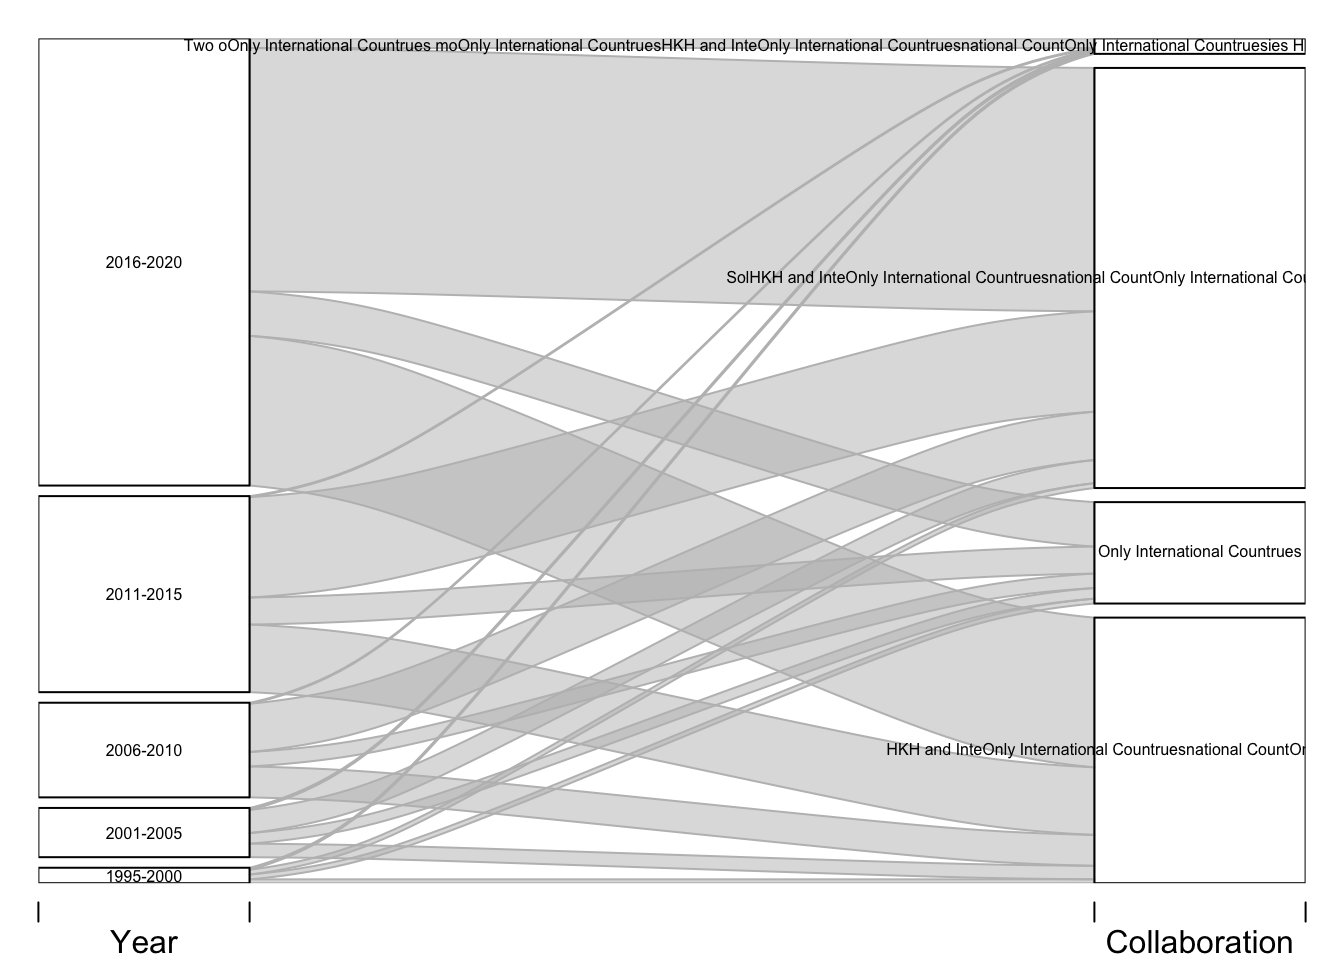
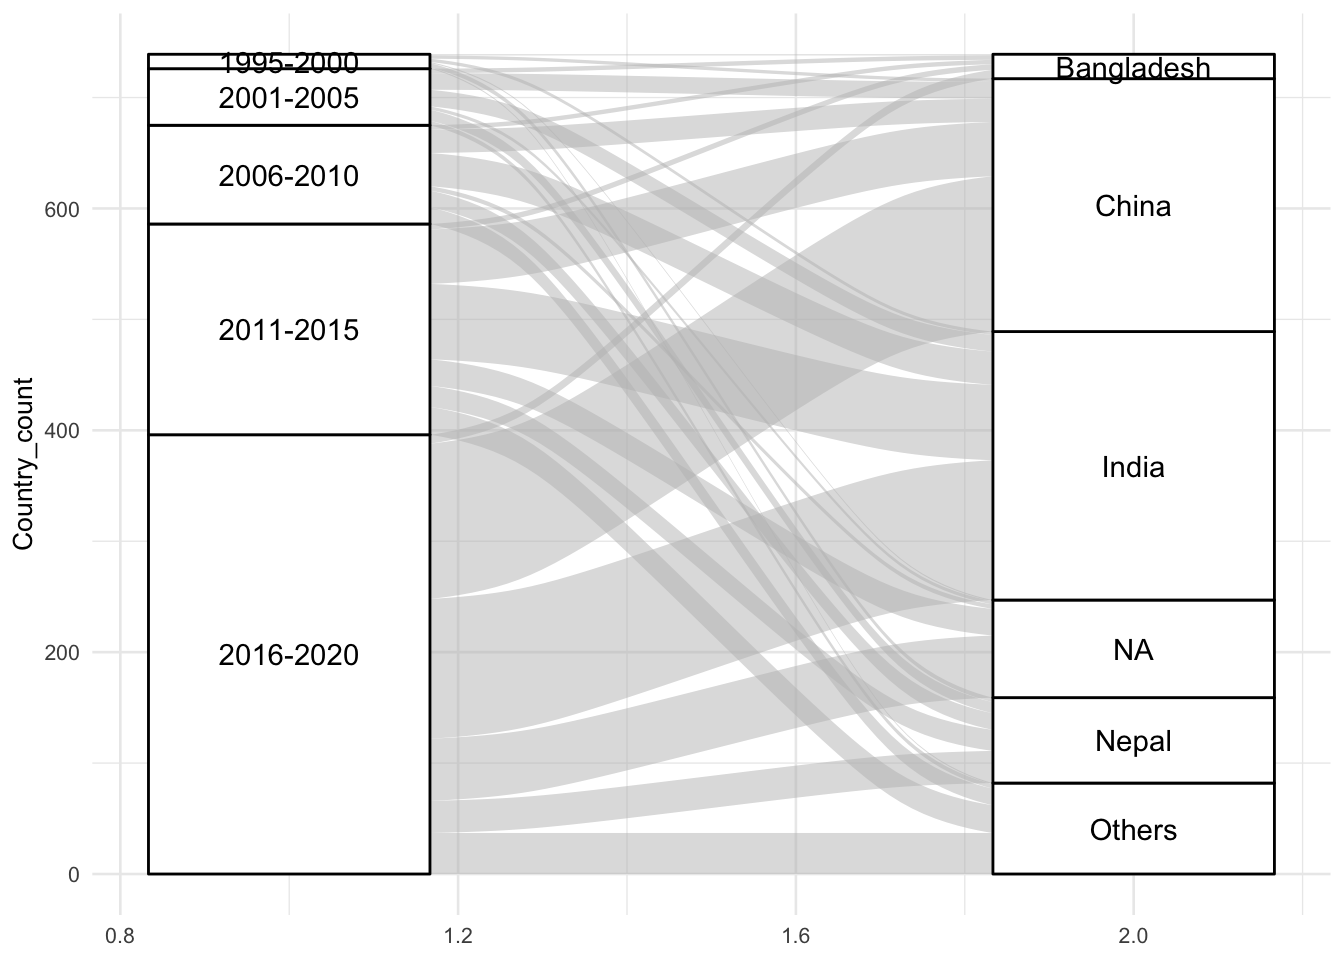
santey test comits (end of day)

diff --git a/docs/synthesis_HKH.html b/docs/synthesis_HKH.html
@@ -379,7 +379,7 @@ div.tocify {
 
 <p>
 <button type="button" class="btn btn-default btn-workflowr btn-workflowr-report" data-toggle="collapse" data-target="#workflowr-report">
-<span class="glyphicon glyphicon-list" aria-hidden="true"></span> workflowr <span class="glyphicon glyphicon-exclamation-sign text-danger" aria-hidden="true"></span>
+<span class="glyphicon glyphicon-list" aria-hidden="true"></span> workflowr <span class="glyphicon glyphicon-ok text-success" aria-hidden="true"></span>
 </button>
 </p>
 <div id="workflowr-report" class="collapse">
@@ -388,7 +388,7 @@ div.tocify {
 <a data-toggle="tab" href="#summary">Summary</a>
 </li>
 <li>
-<a data-toggle="tab" href="#checks"> Checks <span class="glyphicon glyphicon-exclamation-sign text-danger" aria-hidden="true"></span> </a>
+<a data-toggle="tab" href="#checks"> Checks <span class="glyphicon glyphicon-ok text-success" aria-hidden="true"></span> </a>
 </li>
 <li>
 <a data-toggle="tab" href="#versions">Past versions</a>
@@ -400,7 +400,7 @@ div.tocify {
 <strong>Last updated:</strong> 2020-06-05
 </p>
 <p>
-<strong>Checks:</strong> <span class="glyphicon glyphicon-ok text-success" aria-hidden="true"></span> 6 <span class="glyphicon glyphicon-exclamation-sign text-danger" aria-hidden="true"></span> 1
+<strong>Checks:</strong> <span class="glyphicon glyphicon-ok text-success" aria-hidden="true"></span> 7 <span class="glyphicon glyphicon-exclamation-sign text-danger" aria-hidden="true"></span> 0
 </p>
 <p>
 <strong>Knit directory:</strong> <code>mom-ag_services/</code> <span class="glyphicon glyphicon-question-sign" aria-hidden="true" title="This is the local directory in which the code in this file was executed."> </span>
@@ -416,12 +416,12 @@ This reproducible <a href="http://rmarkdown.rstudio.com">R Markdown</a> analysis
 <div class="panel panel-default">
 <div class="panel-heading">
 <p class="panel-title">
-<a data-toggle="collapse" data-parent="#workflowr-checks" href="#strongRMarkdownfilestronguncommittedchanges"> <span class="glyphicon glyphicon-exclamation-sign text-danger" aria-hidden="true"></span> <strong>R Markdown file:</strong> uncommitted changes </a>
+<a data-toggle="collapse" data-parent="#workflowr-checks" href="#strongRMarkdownfilestronguptodate"> <span class="glyphicon glyphicon-ok text-success" aria-hidden="true"></span> <strong>R Markdown file:</strong> up-to-date </a>
 </p>
 </div>
-<div id="strongRMarkdownfilestronguncommittedchanges" class="panel-collapse collapse">
+<div id="strongRMarkdownfilestronguptodate" class="panel-collapse collapse">
 <div class="panel-body">
-<p>The R Markdown file has unstaged changes. To know which version of the R Markdown file created these results, you’ll want to first commit it to the Git repo. If you’re still working on the analysis, you can ignore this warning. When you’re finished, you can run <code>wflow_publish</code> to commit the R Markdown file and build the HTML.</p>
+<p>Great! Since the R Markdown file has been committed to the Git repository, you know the exact version of the code that produced these results.</p>
 </div>
 </div>
 </div>
@@ -488,16 +488,16 @@ This reproducible <a href="http://rmarkdown.rstudio.com">R Markdown</a> analysis
 <div class="panel panel-default">
 <div class="panel-heading">
 <p class="panel-title">
-<a data-toggle="collapse" data-parent="#workflowr-checks" href="#strongRepositoryversionstrongahrefhttpsgithubcomKaranSShakyamomagservicestree677718ee8b81fd6fd01845f5c1457ec15270d7a8targetblank677718ea"> <span class="glyphicon glyphicon-ok text-success" aria-hidden="true"></span> <strong>Repository version:</strong> <a href="https://github.com/KaranSShakya/mom-ag_services/tree/677718ee8b81fd6fd01845f5c1457ec15270d7a8" target="_blank">677718e</a> </a>
+<a data-toggle="collapse" data-parent="#workflowr-checks" href="#strongRepositoryversionstrongahrefhttpsgithubcomKaranSShakyamomagservicestreeb641f8c10e89a4d14f11a9b4ccfd75601e2bbfe9targetblankb641f8ca"> <span class="glyphicon glyphicon-ok text-success" aria-hidden="true"></span> <strong>Repository version:</strong> <a href="https://github.com/KaranSShakya/mom-ag_services/tree/b641f8c10e89a4d14f11a9b4ccfd75601e2bbfe9" target="_blank">b641f8c</a> </a>
 </p>
 </div>
[2 lines of base64/hex data omitted]
 <div class="panel-body">
 <p>
 Great! You are using Git for version control. Tracking code development and connecting the code version to the results is critical for reproducibility.
 </p>
 <p>
-The results in this page were generated with repository version <a href="https://github.com/KaranSShakya/mom-ag_services/tree/677718ee8b81fd6fd01845f5c1457ec15270d7a8" target="_blank">677718e</a>. See the <em>Past versions</em> tab to see a history of the changes made to the R Markdown and HTML files.
+The results in this page were generated with repository version <a href="https://github.com/KaranSShakya/mom-ag_services/tree/b641f8c10e89a4d14f11a9b4ccfd75601e2bbfe9" target="_blank">b641f8c</a>. See the <em>Past versions</em> tab to see a history of the changes made to the R Markdown and HTML files.
 </p>
 <p>
 Note that you need to be careful to ensure that all relevant files for the analysis have been committed to Git prior to generating the results (you can use <code>wflow_publish</code> or <code>wflow_git_commit</code>). workflowr only checks the R Markdown file, but you know if there are other scripts or data files that it depends on. Below is the status of the Git repository when the results were generated:
@@ -510,16 +510,8 @@ Ignored files:
     Ignored:    analysis/.Rhistory
     Ignored:    code/.Rhistory
 
-Untracked files:
-    Untracked:  output/institution_countries.csv
-    Untracked:  output/~$excel-organize_final.xlsx
-    Untracked:  output/~$rd-organize-final.docx
-
 Unstaged changes:
-    Modified:   analysis/synthesis_HKH.Rmd
-    Modified:   code/syn_5-institute.R
-    Modified:   output/hkh-institution_unedited.csv
-    Deleted:    output/institution_country.csv
+    Modified:   code/syn_6-sankey.R
 
 </code></pre>
 <p>
@@ -558,6 +550,40 @@ Message
 </tr>
 </thead>
 <tbody>
+<tr>
+<td>
+Rmd
+</td>
+<td>
+<a href="https://github.com/KaranSShakya/mom-ag_services/blob/b641f8c10e89a4d14f11a9b4ccfd75601e2bbfe9/analysis/synthesis_HKH.Rmd" target="_blank">b641f8c</a>
+</td>
+<td>
+KaranSShakya
+</td>
+<td>
+2020-06-05
+</td>
+<td>
+sankey progress 1,2 axis
+</td>
+</tr>
+<tr>
+<td>
+html
+</td>
+<td>
+<a href="https://rawcdn.githack.com/KaranSShakya/mom-ag_services/b641f8c10e89a4d14f11a9b4ccfd75601e2bbfe9/docs/synthesis_HKH.html" target="_blank">b641f8c</a>
+</td>
+<td>
+KaranSShakya
+</td>
+<td>
+2020-06-05
+</td>
+<td>
+sankey progress 1,2 axis
+</td>
+</tr>
 <tr>
 <td>
 Rmd
@@ -1214,6 +1240,17 @@ Date
 <tbody>
 <tr>
 <td>
+<a href="https://github.com/KaranSShakya/mom-ag_services/blob/b641f8c10e89a4d14f11a9b4ccfd75601e2bbfe9/docs/figure/synthesis_HKH.Rmd/unnamed-chunk-5-1.png" target="_blank">b641f8c</a>
+</td>
+<td>
+KaranSShakya
+</td>
+<td>
+2020-06-05
+</td>
+</tr>
+<tr>
+<td>
 <a href="https://github.com/KaranSShakya/mom-ag_services/blob/2a263de987eac4101817533320d8b145e1d259bb/docs/figure/synthesis_HKH.Rmd/unnamed-chunk-5-1.png" target="_blank">2a263de</a>
 </td>
 <td>
@@ -1277,6 +1314,17 @@ Date
 <tbody>
 <tr>
 <td>
+<a href="https://github.com/KaranSShakya/mom-ag_services/blob/b641f8c10e89a4d14f11a9b4ccfd75601e2bbfe9/docs/figure/synthesis_HKH.Rmd/unnamed-chunk-6-1.png" target="_blank">b641f8c</a>
+</td>
+<td>
+KaranSShakya
+</td>
+<td>
+2020-06-05
+</td>
+</tr>
+<tr>
+<td>
 <a href="https://github.com/KaranSShakya/mom-ag_services/blob/2a263de987eac4101817533320d8b145e1d259bb/docs/figure/synthesis_HKH.Rmd/unnamed-chunk-6-1.png" target="_blank">2a263de</a>
 </td>
 <td>
@@ -1301,52 +1349,6 @@ KaranSShakya
 </table>
 </div>
 </div>
-<pre><code>$endpoints
-$endpoints[[1]]
-             [,1]        [,2]
- [1,] 0.000000000 0.004572804
- [2,] 0.010288809 0.016004813
- [3,] 0.004572804 0.010288809
- [4,] 0.016004813 0.018291215
- [5,] 0.030791215 0.046796029
- [6,] 0.059371239 0.086808063
- [7,] 0.046796029 0.059371239
- [8,] 0.086808063 0.089094465
- [9,] 0.101594465 0.138176895
-[10,] 0.155324910 0.212484958
-[11,] 0.138176895 0.155324910
-[12,] 0.212484958 0.213628159
-[13,] 0.226128159 0.306152226
-[14,] 0.338161853 0.457054753
-[15,] 0.306152226 0.338161853
-[16,] 0.457054753 0.458197954
-[17,] 0.470697954 0.647894103
-[18,] 0.700481348 0.988567990
-[19,] 0.647894103 0.700481348
-[20,] 0.988567990 1.000000000
-
-$endpoints[[2]]
-             [,1]        [,2]
- [1,] 0.000000000 0.004572804
- [2,] 0.467749699 0.473465704
- [3,] 0.331046931 0.336762936
- [4,] 0.981708785 0.983995187
- [5,] 0.004572804 0.020577617
- [6,] 0.473465704 0.500902527
- [7,] 0.336762936 0.349338147
- [8,] 0.983995187 0.986281588
- [9,] 0.020577617 0.057160048
-[10,] 0.500902527 0.558062575
-[11,] 0.349338147 0.366486161
-[12,] 0.986281588 0.987424789
-[13,] 0.057160048 0.137184116
-[14,] 0.558062575 0.676955475
-[15,] 0.366486161 0.398495788
-[16,] 0.987424789 0.988567990
-[17,] 0.137184116 0.314380265
-[18,] 0.676955475 0.965042118
-[19,] 0.398495788 0.451083032
-[20,] 0.988567990 1.000000000</code></pre>
 <hr />
 <br>
 <p>
